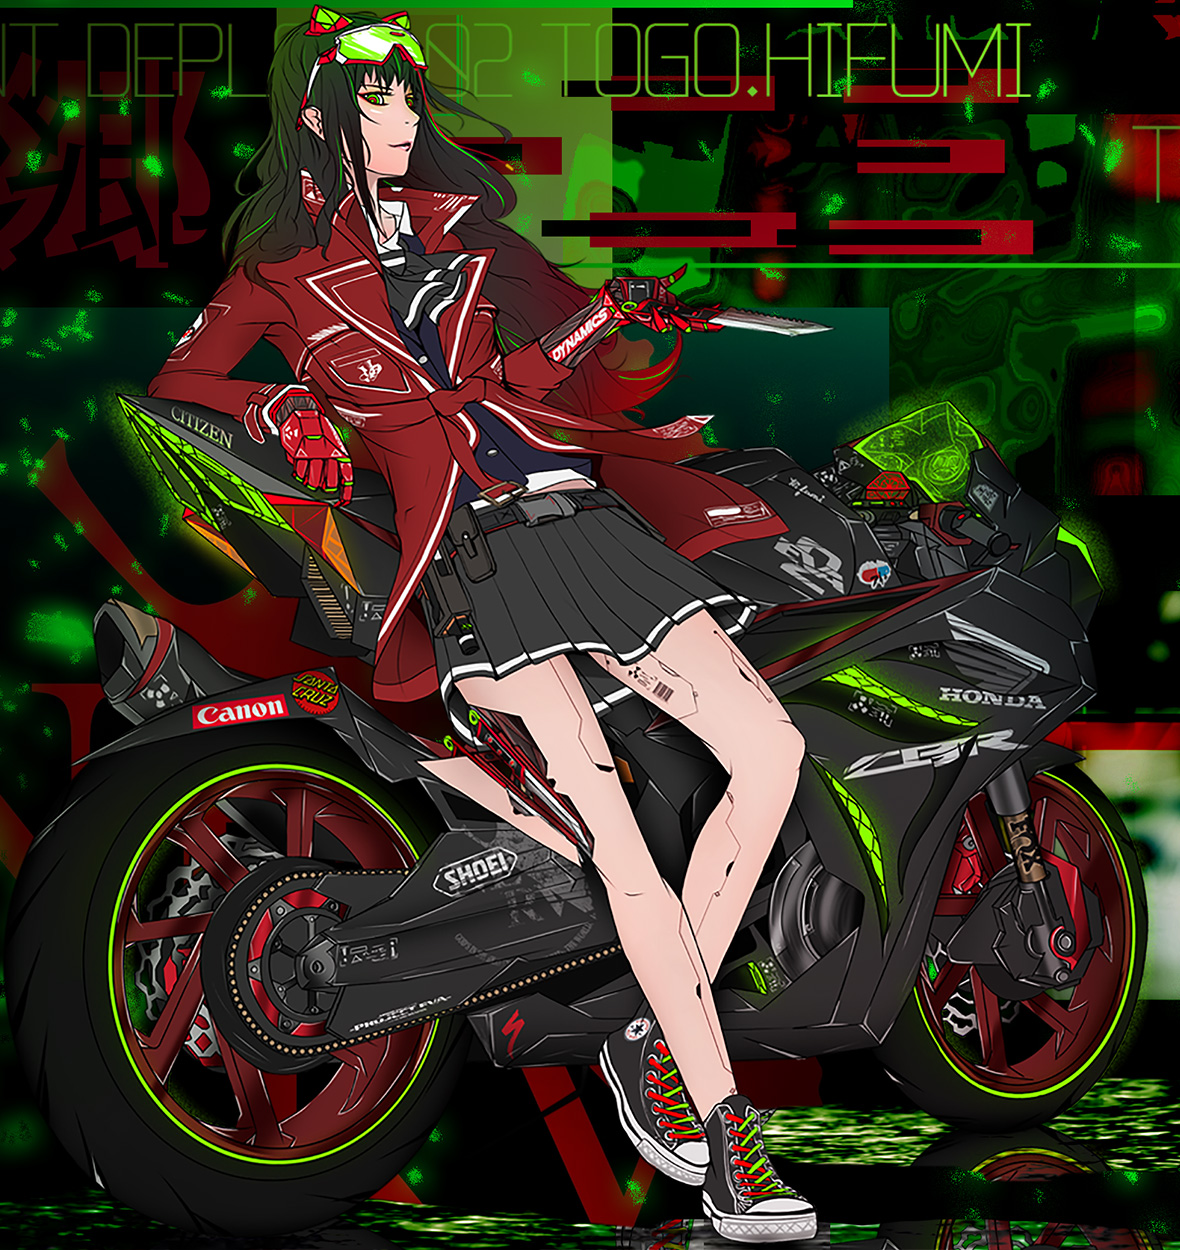
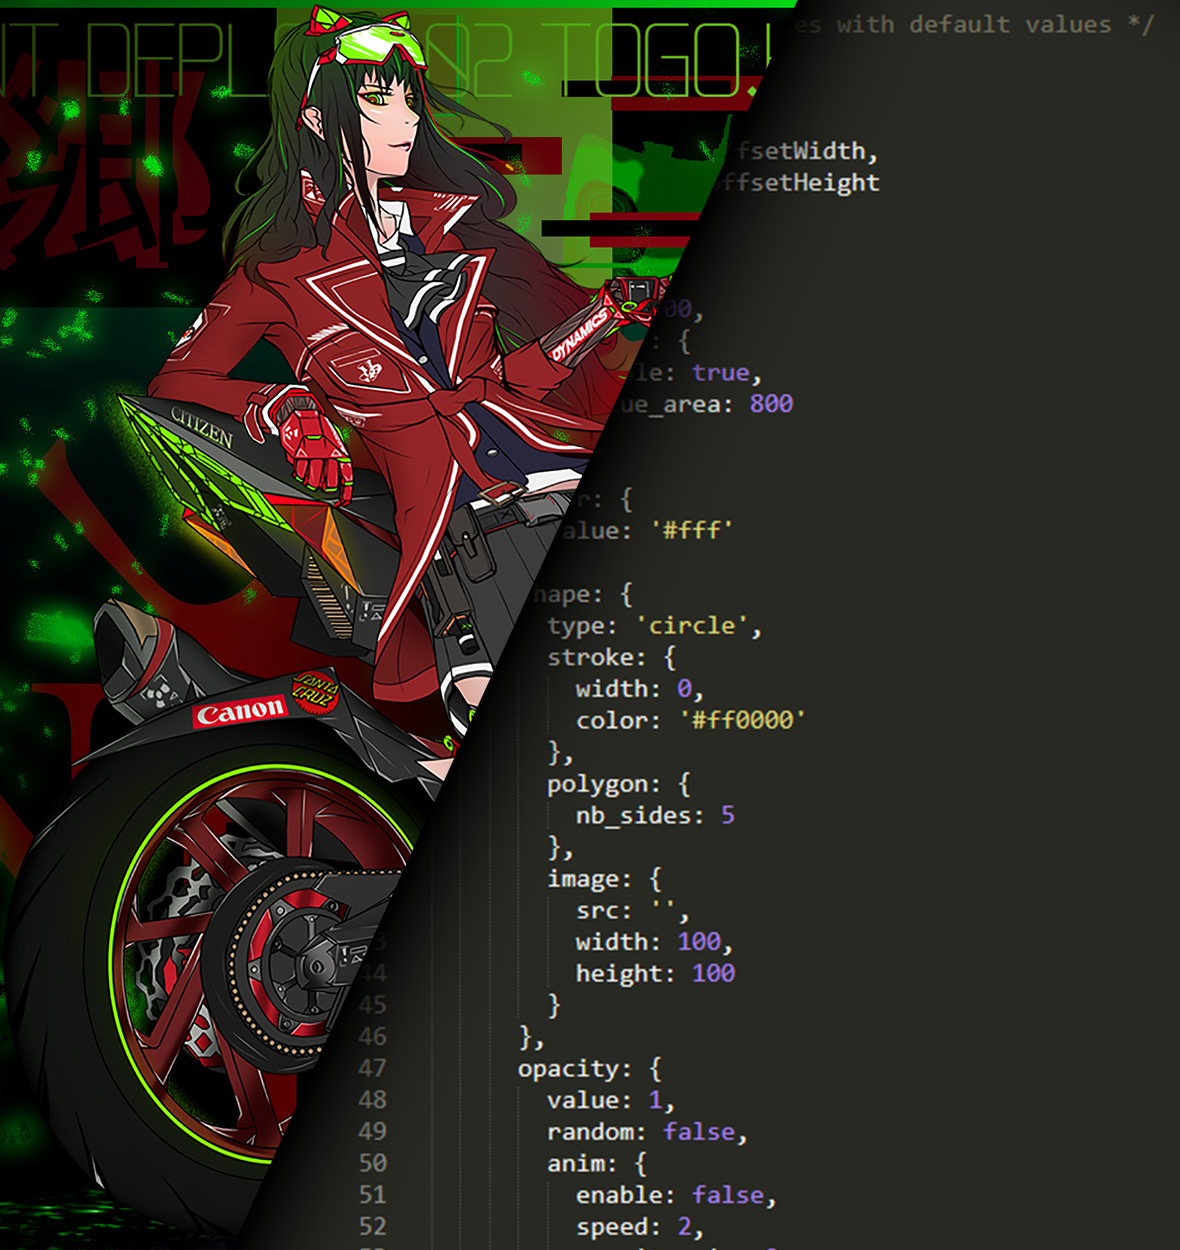
tweaks

diff --git a/dma_portfolio_gallery.html b/dma_portfolio_gallery.html
@@ -20,10 +20,10 @@
       <img src="images/bfa/kirijo_banner.jpg" alt="woman motorcycle anime futuristic"></img>
     </a>
     <a href="https://asukabaka.github.io/makoto_2038.html" class="gallery3">
-      <img src="images/frontpage_makoto_2038.jpg" alt="woman motorcycle anime futuristic"></img>
+      <img src="images/bfa/frontpage_makoto_2038_code.jpg" alt="woman motorcycle anime futuristic"></img>
     </a>
     <a href="dma_portfolio_SFD_website.html" class="gallery4">
-      <img src="images/bfa/html.jpg" alt="woman motorcycle anime futuristic"></img>
+      <img src="images/bfa/html2.jpg" alt="woman motorcycle anime futuristic"></img>
     </a>
     <a href="dma_portfolio_boba.html" class="gallery5">
       <img src="images/bfa/visual_design_banner.jpg" alt="woman motorcycle anime futuristic"></img>
